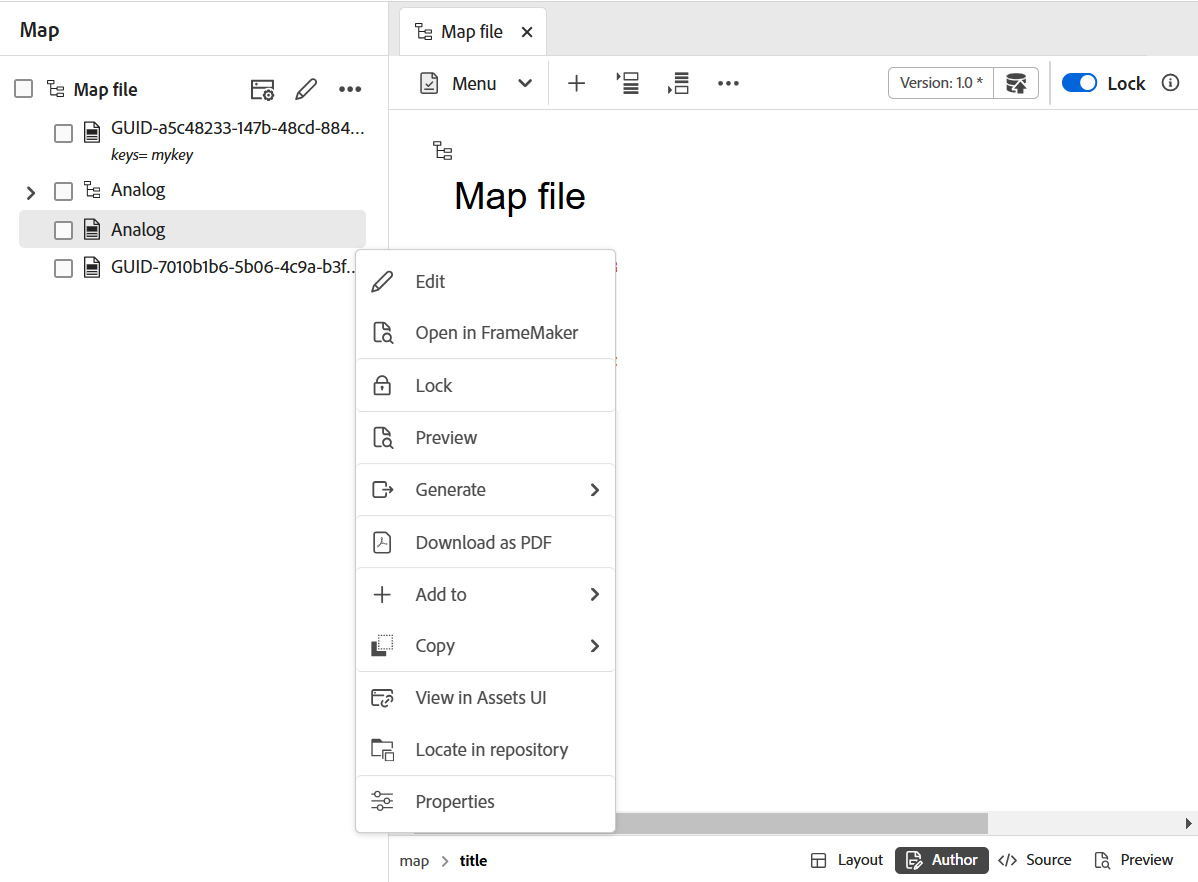
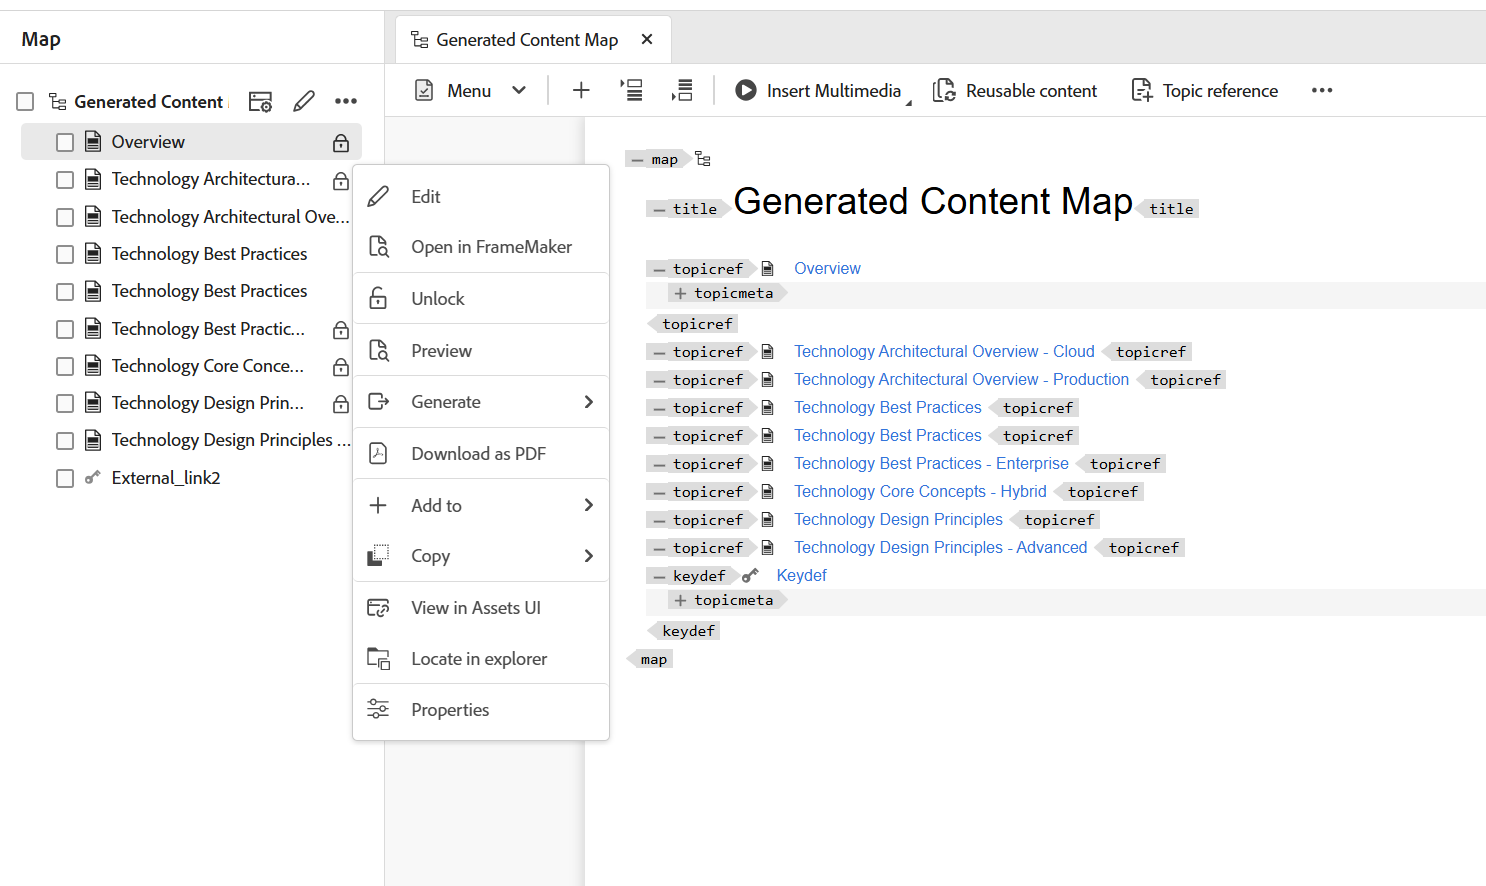
updated for 37840

diff --git a/help/product-guide/user-guide/web-editor-left-panel.md b/help/product-guide/user-guide/web-editor-left-panel.md
@@ -11,12 +11,15 @@ The left panel gives you quick access to Collections, Repository view, Map view,
 
 >[!NOTE]
 >
-> The left panel is resizable. To resize the panel, bring the cursor on the panel boundary, the cursor changes to a double-headed arrow, select and drag to resize the panel width.
+> - The left panel is resizable. To resize the panel, bring the cursor on the panel boundary, the cursor changes to a double-headed arrow, select and drag to resize the panel width.
+> - Starting with 2025.11.0 release, **Repository** in the Editor will be deprecated and replaced by **Explorer** for **Cloud service** setup. For **On-Premise** setup, you will continue to view and use Repository through the Editor interface till 5.1 release of Experience Manager Guides.
+ 
 
 The left panel gives you access to the following features:
 
 - [Collections](#collections)
 - [Repository](#repository)
+- [Explorer](#explorer)
 - [Map](#map)
 - [Reusable content](#reusable-content)
 - [Outline](#outline)
@@ -114,7 +117,7 @@ You can also perform many actions using the Options menu available for a Collect
 
 >[!NOTE]
 >
-> Starting with 2025.11.0 release, **Repository** in the Editor will be deprecated and replaced by **Explorer** for **Cloud service** setup. For **On-Premise** setup, you will continue to view and use Repository through the Editor interface. 
+> Starting with 2025.11.0 release, **Repository** in the Editor will be deprecated and replaced by **Explorer** for **Cloud service** setup. For **On-Premise** setup, you will continue to view and use Repository through the Editor interface till 5.1 release of Experience Manager Guides. 
 
 When you select the Repository icon, you get a list of files and folders available in DAM. By default, you can view the files by titles. As you hover over a file, you can view the file title and the file name as a tooltip.   
 
@@ -489,7 +492,7 @@ You can perform the following actions using the Options menu of the map file:
     - **Copy UUID**: Copy the UUID of the map file to Clipboard.
     - **Copy Path**: Copy complete path of the map file to Clipboard.
 
-- **Locate in repository**: Shows the location of the map file in the repository \(or DAM\).
+- **Locate in explorer**: Shows the location of the map file in the explorer\(or DAM\).
 
 - **Add to**: You can choose from the following options:
     - **Collections**: Adds the map file to collections. You can choose to add it to an existing or new collection.
@@ -546,7 +549,7 @@ You can perform the following actions using the Options menu:
     - **Copy Path**: Copy complete path of the selected file to Clipboard.
 
     
-- **Locate in repository**: Shows the location of the selected file in the repository \(or DAM\).
+- **Locate in explorer**: Shows the location of the selected file in the explorer \(or DAM\).
 - **Expand all**: Expand all topics in the map files.
 
 - **Collapse all**: Collapse all topics that are a part of the current map file.

diff --git a/help/product-guide/release-info/upgrade-instructions-2025-10-0.md b/help/product-guide/release-info/upgrade-instructions-2025-10-0.md
@@ -50,8 +50,7 @@ Experience Manager Guides is upgraded automatically upon upgrading the current (
 >[!NOTE]
 >
 > - Once you start using the current (latest) release, compare any overridden configurations with the latest ones to get the latest features: ui_config.json (may have been set in folder profiles)
-> - If you're using custom folder profile settings, make sure to save them before upgrading to the current release. After updating, review and adjust your settings to align with any changes introduced in the latest version.
-
+> - This release includes updates to folder profile settings. If you are using custom settings, ensure to take a back up of those before upgrading. After the update, review and adjust your settings to align with the changes introduced in the latest version.
 
 Perform the following steps for Experience Manager Guides as a Cloud Service if you haven't done it earlier for your existing release:
 

diff --git a/help/product-guide/cs-install-guide/workspace-settings.md b/help/product-guide/cs-install-guide/workspace-settings.md
@@ -81,7 +81,7 @@ This setting controls the panels that are shown in the left and right panels of 
 
 You can also define the order in which the features present in panels are displayed. To change the default order of the available features in the panels, select the dotted bars to drag and drop the feature tabs at the desired location. A feature can also be moved from the **More** section to the main section of a panel, and vice versa as per the requirement. Once re-ordered, the features appear in the same sequence in the respective right and left panel. 
 
-![](../user-guide/images/panels-screen.png){width="650" align="left"}
+![](../user-guide/images/panels-screen-new.png){width="650" align="left"}
 
 
 A maximum of eight panels can be displayed at a time. Any changes made to the panel settings are applied immediately. 
